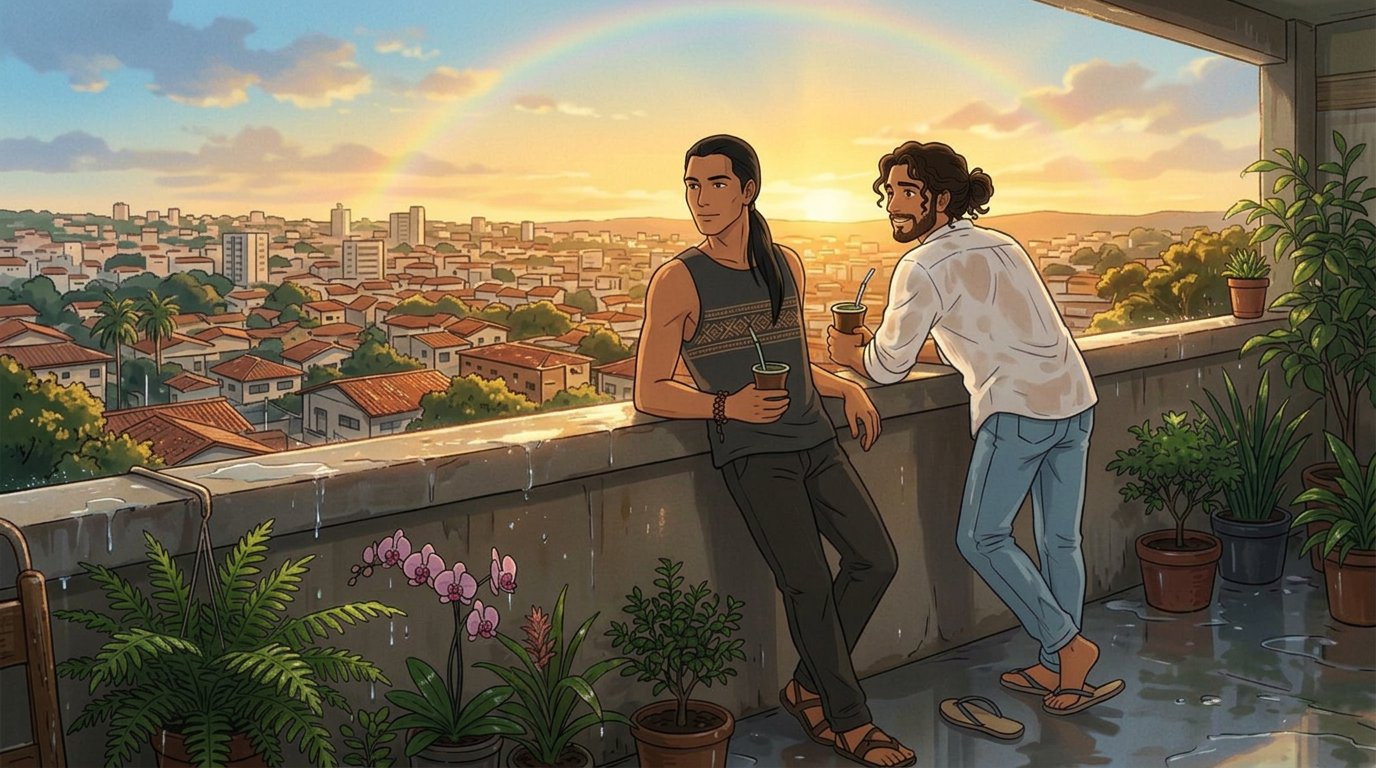
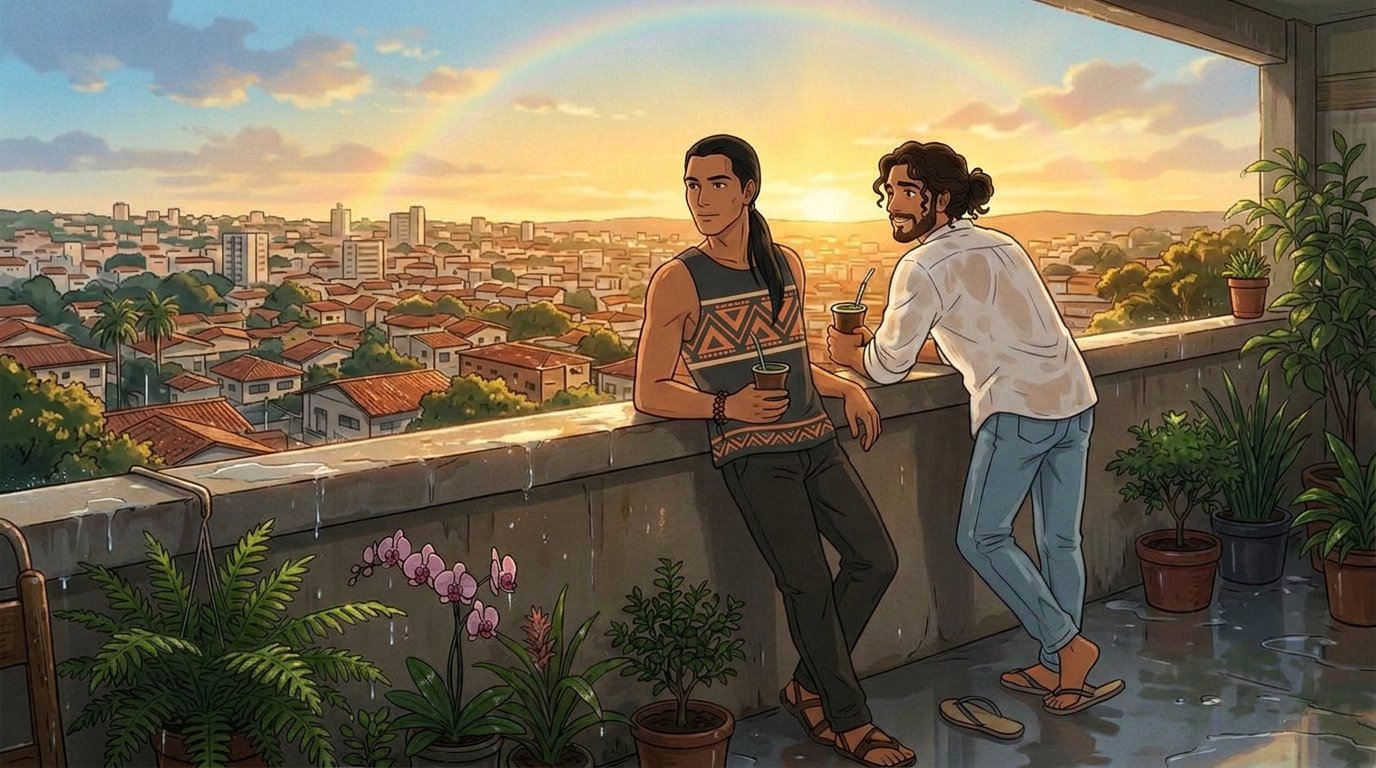
Corrige a estampa canonica da regata do Tupa (6 frames), completa os 15 frames de fim e cria o pacote sequencia/ com 30 imagens numeradas

Changed region(s): [[0.5, 0.375, 0.5938, 0.5], [0.5, 0.5312, 0.625, 0.5938], [0.8438, 0.5312, 0.875, 0.5625]]

diff --git a/historias/santos-do-cerrado/sequencia/INDICE.md b/historias/santos-do-cerrado/sequencia/INDICE.md
@@ -1,0 +1,88 @@
+# SEQUÊNCIA DE PRODUÇÃO — todos os frames, na ordem
+
+Esta pasta é o **pacote de uso direto**. Os 30 frames estão aqui renomeados em ordem de montagem, para você não precisar caçar arquivo nas pastas dos episódios.
+
+- **15 clipes × 2 imagens = 30 arquivos**
+- Numeração global de `01` a `30`, na ordem exata de uso
+- `A-inicio` = primeiro frame · `B-fim` = último frame
+- Todos **16:9**, prontos para o modo *first & last frame*
+
+---
+
+## Como usar (3 passos)
+
+1. Abra o `03-prompts-de-video.md` e escolha o clipe (ex.: `CLIPE 02 · DOIS CARAS E UMA CAIXA`).
+2. **Prompt A** → suba os dois arquivos do clipe (`A-inicio` e `B-fim`) no Seedance 2.0 / Kling / Veo.
+3. **Prompt B** → suba **só o `A-inicio`** no Google Omni Flash / Seedance 1.5 Pro (é o que tem lip-sync).
+
+> Trave a saída em **6,0 s**. Cinco clipes = 30 s por episódio.
+
+---
+
+## Pranchas de conferência
+
+| Arquivo | O que mostra |
+|---|---|
+| [`ep01-prancha.jpg`](ep01-prancha.jpg) | os 5 clipes do Ep. 01 (início + fim, na ordem) |
+| [`ep02-prancha.jpg`](ep02-prancha.jpg) | os 5 clipes do Ep. 02 |
+| [`ep03-prancha.jpg`](ep03-prancha.jpg) | os 5 clipes do Ep. 03 |
+
+---
+
+## Lista completa, na ordem
+
+| # | Arquivo | Episódio · clipe | Título | Tempo no episódio |
+|---|---|---|---|---|
+| 01 | `01-ep01-clipe01-A-inicio.jpg` | EP01 · clipe 01 | A cidade que ferve | 0,0 s |
+| 02 | `02-ep01-clipe01-B-fim.jpg` | EP01 · clipe 01 | A cidade que ferve | 6,0 s |
+| 03 | `03-ep01-clipe02-A-inicio.jpg` | EP01 · clipe 02 | Dois caras e uma caixa | 6,0 s |
+| 04 | `04-ep01-clipe02-B-fim.jpg` | EP01 · clipe 02 | Dois caras e uma caixa | 12,0 s |
+| 05 | `05-ep01-clipe03-A-inicio.jpg` | EP01 · clipe 03 | O milagre não pega | 12,0 s |
+| 06 | `06-ep01-clipe03-B-fim.jpg` | EP01 · clipe 03 | O milagre não pega | 18,0 s |
+| 07 | `07-ep01-clipe04-A-inicio.jpg` | EP01 · clipe 04 | A chuva de Tupã | 18,0 s |
+| 08 | `08-ep01-clipe04-B-fim.jpg` | EP01 · clipe 04 | A chuva de Tupã | 24,0 s |
+| 09 | `09-ep01-clipe05-A-inicio.jpg` | EP01 · clipe 05 | Molhados, rindo | 24,0 s |
+| 10 | `10-ep01-clipe05-B-fim.jpg` | EP01 · clipe 05 | Molhados, rindo | 30,0 s |
+| 11 | `11-ep02-clipe01-A-inicio.jpg` | EP02 · clipe 01 | O convite | 0,0 s |
+| 12 | `12-ep02-clipe01-B-fim.jpg` | EP02 · clipe 01 | O convite | 6,0 s |
+| 13 | `13-ep02-clipe02-A-inicio.jpg` | EP02 · clipe 02 | A montagem | 6,0 s |
+| 14 | `14-ep02-clipe02-B-fim.jpg` | EP02 · clipe 02 | A montagem | 12,0 s |
+| 15 | `15-ep02-clipe03-A-inicio.jpg` | EP02 · clipe 03 | Pão de queijo infinito | 12,0 s |
+| 16 | `16-ep02-clipe03-B-fim.jpg` | EP02 · clipe 03 | Pão de queijo infinito | 18,0 s |
+| 17 | `17-ep02-clipe04-A-inicio.jpg` | EP02 · clipe 04 | O fogo e o furto | 18,0 s |
+| 18 | `18-ep02-clipe04-B-fim.jpg` | EP02 · clipe 04 | O fogo e o furto | 24,0 s |
+| 19 | `19-ep02-clipe05-A-inicio.jpg` | EP02 · clipe 05 | O trato com o Saci | 24,0 s |
+| 20 | `20-ep02-clipe05-B-fim.jpg` | EP02 · clipe 05 | O trato com o Saci | 30,0 s |
+| 21 | `21-ep03-clipe01-A-inicio.jpg` | EP03 · clipe 01 | A síndica e a máquina | 0,0 s |
+| 22 | `22-ep03-clipe01-B-fim.jpg` | EP03 · clipe 01 | A síndica e a máquina | 6,0 s |
+| 23 | `23-ep03-clipe02-A-inicio.jpg` | EP03 · clipe 02 | Os três na calçada | 6,0 s |
+| 24 | `24-ep03-clipe02-B-fim.jpg` | EP03 · clipe 02 | Os três na calçada | 12,0 s |
+| 25 | `25-ep03-clipe03-A-inicio.jpg` | EP03 · clipe 03 | Tupã escuta a árvore | 12,0 s |
+| 26 | `26-ep03-clipe03-B-fim.jpg` | EP03 · clipe 03 | Tupã escuta a árvore | 18,0 s |
+| 27 | `27-ep03-clipe04-A-inicio.jpg` | EP03 · clipe 04 | Água na raiz, luz na terra | 18,0 s |
+| 28 | `28-ep03-clipe04-B-fim.jpg` | EP03 · clipe 04 | Água na raiz, luz na terra | 24,0 s |
+| 29 | `29-ep03-clipe05-A-inicio.jpg` | EP03 · clipe 05 | O ipê floresce | 24,0 s |
+| 30 | `30-ep03-clipe05-B-fim.jpg` | EP03 · clipe 05 | O ipê floresce | 30,0 s |
+
+---
+
+## Clipes sem personagem (não precisam do key visual)
+
+`01`, `02`, `07`, `08` (Ep. 01), `11` (Ep. 02), `17`, `18`, `19`, `20` (Ep. 02 — só Tupã/Saci) e `21` (Ep. 03).
+
+Nos demais, use o **key visual** (`../imagens/referencias/key-visual.jpg`) como imagem de referência no gerador, além do frame.
+
+---
+
+## Regras travadas
+
+- **6 s por clipe**, sempre.
+- **Tupã**: barbeado, sem tatuagem, rabo de cavalo baixo, cabeça **nunca mais de 45° de perfil**.
+- **Jesus**: cabelo cacheado comprido **preso em coque baixo**, barba curta.
+- **Estampa do Tupã**: ver a nota abaixo — é o item que mais escapou até aqui.
+
+### Estampa canônica da regata do Tupã
+
+Faixa **larga** no peito, em fundo creme, com **triângulos e losangos terracota grandes e saturados**, contornada por duas linhas finas terracota; o mesmo motivo **menor** na barra da camiseta; corpo da regata em **cinza-escuro**.
+
+**Referência oficial:** `../imagens/ep01/c03.jpg` (é o frame em que a estampa aparece mais nítida). Anexe essa imagem junto com o prompt sempre que o Tupã estiver em cena — se o modelo devolver zigue-zague fino e pálido, está errado.

diff --git a/historias/santos-do-cerrado/02-guia-de-producao.md b/historias/santos-do-cerrado/02-guia-de-producao.md
@@ -44,14 +44,15 @@ O maior problema de IA é a inconsistência de personagem. Três travas resolvem
 2. **Nunca** deixe o Tupã sair com barba ou bigode. Ele é **sempre barbeado**. Se o modelo insistir, acrescente "clean-shaven, bare face, no facial hair" e "no tattoos on arms" no prompt, e "barba, bigode, cavanhaque, tatuagem" no negative prompt.
 3. **Frame de referência** — quando o gerador permitir (Veo 3 "ingredients", Seedance "referência"), anexe o **key visual** em `imagens/referencias/key-visual.jpg` junto com o prompt.
 4. **Ordem no prompt** — sempre coloque **estilo → personagens → ação** nessa ordem. Modelos dão mais peso ao que vem primeiro.
-5. **O cabelo do Jesus é o mesmo em todo frame (novo padrão, 23/10):** cacheado, **comprido até os ombros**, preso num **coque baixo despojado na nuca**, com dois ou três cachos soltos emoldurando o rosto. Se o modelo devolver o cabelo solto ou curto, repita: `hair tied in a low bun, longer curly hair, loose curls framing the face`.
+5. **Anexe `imagens/ep01/c03.jpg` junto do prompt sempre que o Tupã estiver em cena.** É o frame em que a estampa canônica aparece mais nítida. Sem essa referência, o gerador inventa um zigue-zague fino e pálido — foi o erro que apareceu em `ep02/c05-fim` e `ep03/c01-fim`.
+6. **O cabelo do Jesus é o mesmo em todo frame (novo padrão, 23/10):** cacheado, **comprido até os ombros**, preso num **coque baixo despojado na nuca**, com dois ou três cachos soltos emoldurando o rosto. Se o modelo devolver o cabelo solto ou curto, repita: `hair tied in a low bun, longer curly hair, loose curls framing the face`.
 6. **O rosto do Tupã precisa ser legível.** Ele é o personagem calado; a emoção dele vive no rosto. Nunca deixe a cabeça dele virada de costas ou de perfil puro: **no máximo 45° de perfil**, olhos visíveis. No prompt de imagem, escreva `head turned three-quarters toward the camera, face clearly visible`.
 
 ### BLOCO DE PERSONAGEM (copie igual em tudo)
 
 ```
 JESUS: homem brasileiro de 30 anos, pele morena clara, cabelo castanho-escuro cacheado e comprido, na altura dos ombros, preso num coque baixo despojado na nuca, com cachos soltos emoldurando o rosto, barba curta, camisa de linho branca de botão com mangas dobradas, calça jeans clara, chinelo de dedo, pulseira de couro no pulso.
-TUPÃ: homem indígena de 30 anos, pele morena, rosto COMPLETAMENTE BARBEADO (sem barba, sem bigode, sem cavanhaque), sem tatuagens nos braços, cabelo preto liso na altura dos ombros preso em rabo de cavalo baixo, camiseta regata cinza-escura com UMA faixa horizontal de grafismo geométrico guarani atravessada no peito (losangos e zigue-zagues em terracota e preto) e o mesmo motivo pequeno repetido na barra inferior, calça de sarja, sandália de couro, pulseira de sementes no pulso.
+TUPÃ: homem indígena de 30 anos, pele morena, rosto COMPLETAMENTE BARBEADO (sem barba, sem bigode, sem cavanhaque), sem tatuagens nos braços, cabelo preto liso na altura dos ombros preso em rabo de cavalo baixo, cabeça nunca mais de 45° de perfil (rosto sempre legível), camiseta regata cinza-escura com UMA faixa horizontal LARGA no peito em fundo creme, com TRIÂNGULOS e LOSANGOS TERRACOTA GRANDES E SATURADOS contornados por duas linhas finas terracota, e o mesmo motivo menor repetido na barra inferior, calça de sarja, sandália de couro, pulseira de sementes no pulso. A estampa é grande e nítida — nunca um zigue-zague fino e pálido. Referência visual: imagens/ep01/c03.jpg.
 ```
 
 ## 4. BLOCO DE ESTILO (copie igual em tudo)

diff --git a/historias/santos-do-cerrado/STATUS.md b/historias/santos-do-cerrado/STATUS.md
@@ -22,7 +22,13 @@ Atualizado em: 23/10/2026 · **Formato final: 5 clipes de 6 s por episódio (30 
 - A referência canônica é o novo **key visual**: `imagens/referencias/key-visual.jpg`.
 - O bloco de personagem do `02-guia-de-producao.md` já foi atualizado — copie de lá, não invente variação.
 
-### 3. Tupã — rosto sempre legível
+### 3. Estampa canônica da regata do Tupã (corrigida em 23/10)
+
+As imagens geradas **do zero** (fora do fluxo de edição) voltaram com a estampa **errada**: zigue-zague fino e pálido em vez dos triângulos terracota. Corrigi `ep02/c05-fim` e `ep03/c01-fim`, e daí em diante passei a **anexar `imagens/ep01/c03.jpg` como referência** em todo prompt com o Tupã.
+
+**Estampa oficial:** faixa larga no peito em fundo creme, com **triângulos e losangos terracota grandes e saturados**, contornada por duas linhas finas terracota; motivo menor na barra; corpo da regata cinza-escuro.
+
+### 4. Tupã — rosto sempre legível
 
 A imagem de fim do Ep. 01 (`ep01/c05-fim.jpg`) tinha o Tupã com a cabeça **virada demais, quase de costas**. Foi regerada: agora ele aparece **em três quartos, rosto visível**. Virou regra: o Tupã nunca passa de **45° de perfil**.
 
@@ -41,11 +47,13 @@ A imagem de fim do Ep. 01 (`ep01/c05-fim.jpg`) tinha o Tupã com a cabeça **vir
 
 ### Frames
 
-| Episódio | Início | Fim | Falta |
-|---|---|---|---|
-| 01 — Quarenta Graus | ✅ c01–c05 | ✅ c01–c05 | — |
-| 02 — A Festa do Bairro | ✅ c01–c05 | ✅ c01–c05 | — |
-| 03 — O Ipê do Estacionamento | ✅ c01–c05 | ✅ c01 · ⏳ c02, c03, c04, c05 | **c02-fim, c03-fim, c04-fim, c05-fim** |
+| Episódio | Início | Fim |
+|---|---|---|
+| 01 — Quarenta Graus | ✅ c01–c05 | ✅ c01–c05 |
+| 02 — A Festa do Bairro | ✅ c01–c05 | ✅ c01–c05 |
+| 03 — O Ipê do Estacionamento | ✅ c01–c05 | ✅ c01–c05 |
+
+**Temporada 1 completa: 30 de 30 frames.**
 
 > **Regra usada para decidir quais frames refazer:** só os frames em que o **Jesus aparece**. Frames sem ele (cidade, parede, Saci no galho, Tupã sozinho na árvore) foram mantidos — o figurino e o rosto do Tupã não mudaram.
 
@@ -58,8 +66,9 @@ A imagem de fim do Ep. 01 (`ep01/c05-fim.jpg`) tinha o Tupã com a cabeça **vir
 | Guia de produção (Seedance/Veo + CapCut) | ✅ |
 | Roteiro dos 3 episódios reformatado em 5 clipes de 6 s | ✅ |
 | Prompts de imagem e de vídeo (15 + 15) | ✅ retimados para 6 s |
-| **Frames de início** | **15 de 15** ✅ (todos com o cabelo novo do Jesus) |
-| **Frames de fim** | **11 de 15** — faltam 4 |
+| **Frames de início** | **15 de 15** ✅ |
+| **Frames de fim** | **15 de 15** ✅ |
+| **Pacote de produção** | ✅ `sequencia/` — 30 arquivos numerados + pranchas |
 
 > Os frames antigos do Ep. 01 (12 planos) ficaram em `imagens/ep01/alternativas/` e servem como banco extra.
 
@@ -100,7 +109,8 @@ Os 6 prompts que faltam estão no **Anexo** do `03-prompts-de-video.md`.
 
 ## ⚠ PRÓXIMA CONVERSA — só isto:
 
-1. Gerar os **4 últimos frames de fim do Ep. 03**: `c02-fim`, `c03-fim`, `c04-fim`, `c05-fim` — prompts no Anexo do `03-prompts-de-video.md`.
+1. **Gerar os 15 vídeos** de 6 s a partir de `sequencia/` (2 imagens por clipe) — nada de imagem nova é necessário.
+2. *(Opcional)* Gerar as falas em áudio para dublagem.
 2. *(Opcional)* Gerar as **falas em áudio** para dublagem.
 3. *(Temporada 2)* A figura de terno claro e chapéu de palha, plantada no fim do Ep. 03.
 

diff --git a/historias/santos-do-cerrado/README.md b/historias/santos-do-cerrado/README.md
@@ -15,7 +15,8 @@ Série de animação curta em 3 episódios de **30 segundos** (5 clipes de 6 s c
 | 5 | **[episodio-02-festa-do-bairro.md](episodio-02-festa-do-bairro.md)** | Roteiro do Ep. 2 + 5 frames prontos + 5 prompts de imagem + 5 prompts de vídeo |
 | 6 | **[episodio-03-o-ipe-do-estacionamento.md](episodio-03-o-ipe-do-estacionamento.md)** | Roteiro do Ep. 3 + 5 frames prontos + 5 prompts de imagem + 5 prompts de vídeo |
 | 7 | **[03-prompts-de-video.md](03-prompts-de-video.md)** | **Arquivo de copiar e colar:** os 2 tipos de prompt de vídeo (primeiro/último frame e imagem única com fala) para os 15 clipes |
-| 8 | **[STATUS.md](STATUS.md)** | O que já está pronto e o que falta gerar na próxima conversa |
+| 8 | **[sequencia/INDICE.md](sequencia/INDICE.md)** | **Pacote de uso direto:** os 30 frames renomeados na ordem de montagem + pranchas de conferência |
+| 9 | **[STATUS.md](STATUS.md)** | O que já está pronto e o que falta gerar na próxima conversa |
 
 ---
 
@@ -33,8 +34,9 @@ historias/santos-do-cerrado/
 └── imagens/
     ├── ep01/  c01.jpg … c05.jpg + c01-fim.jpg … c05-fim.jpg
     ├── ep02/  c01.jpg … c05.jpg
-    ├── ep03/  c01.jpg … c05.jpg
-    └── referencias/  (key visual dos personagens)
+    ├── ep03/  c01.jpg … c05.jpg + c01-fim … c05-fim
+    └── referencias/  key-visual.jpg (referência dos personagens)
+sequencia/  30 frames numerados 01–30 + 3 pranchas (ver INDICE.md)
 ```
 
 ---
